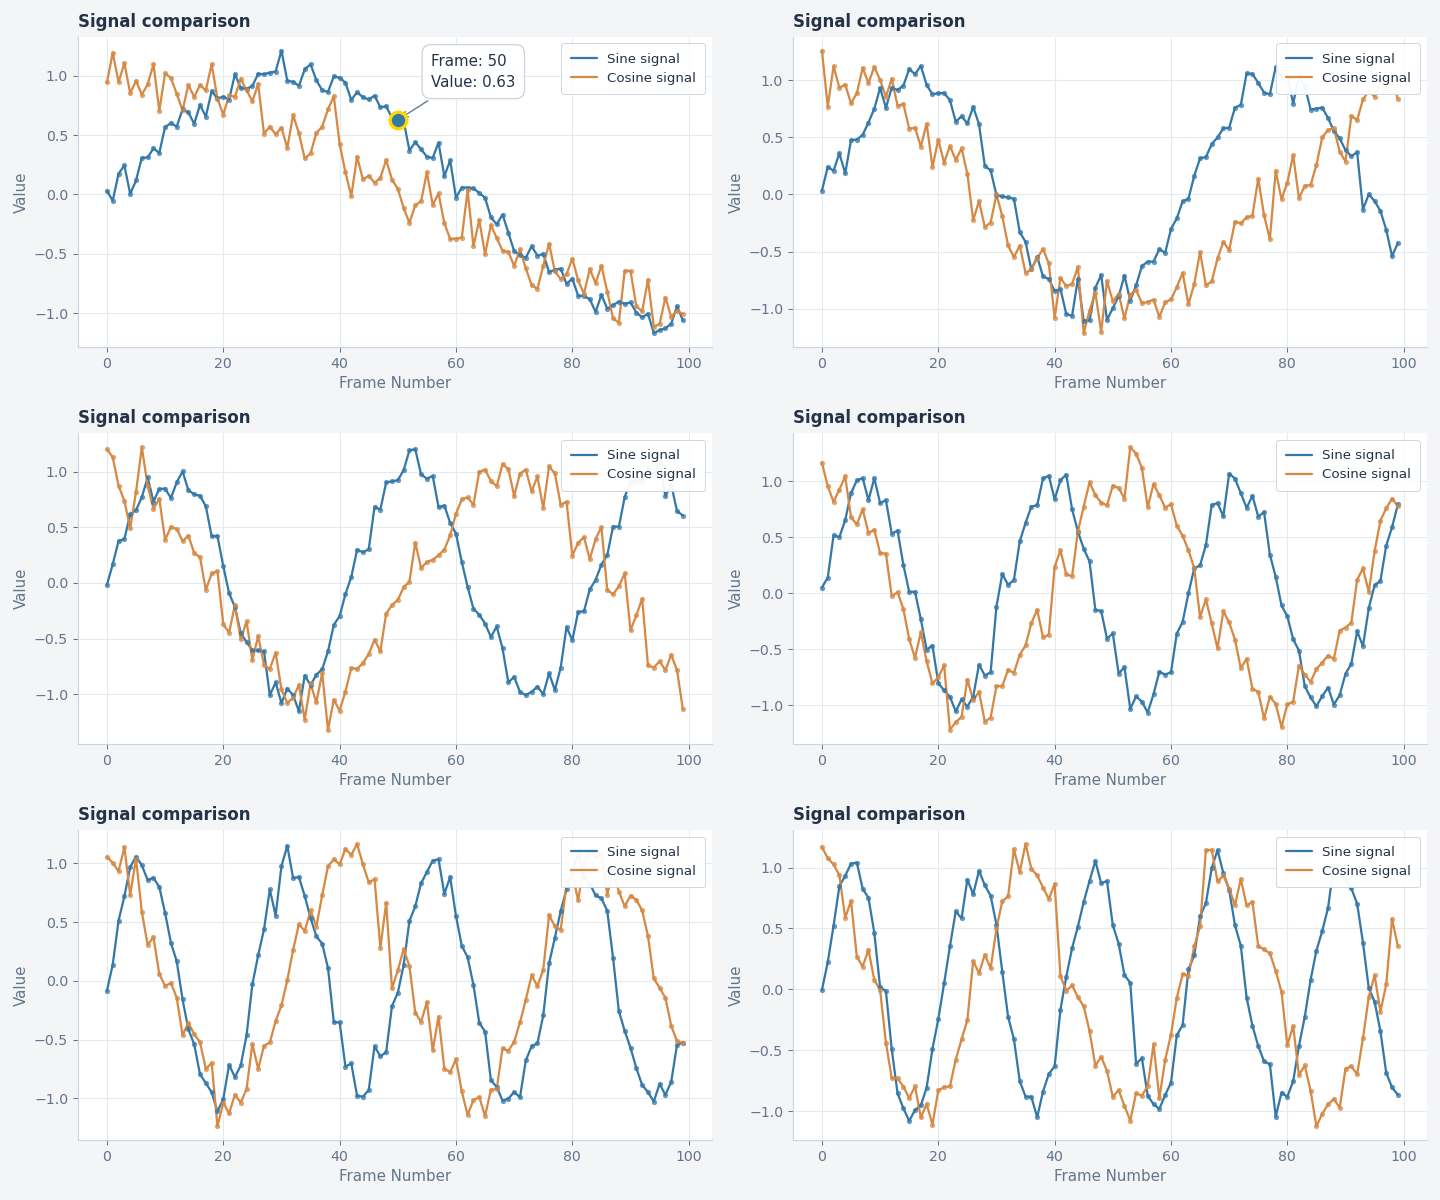
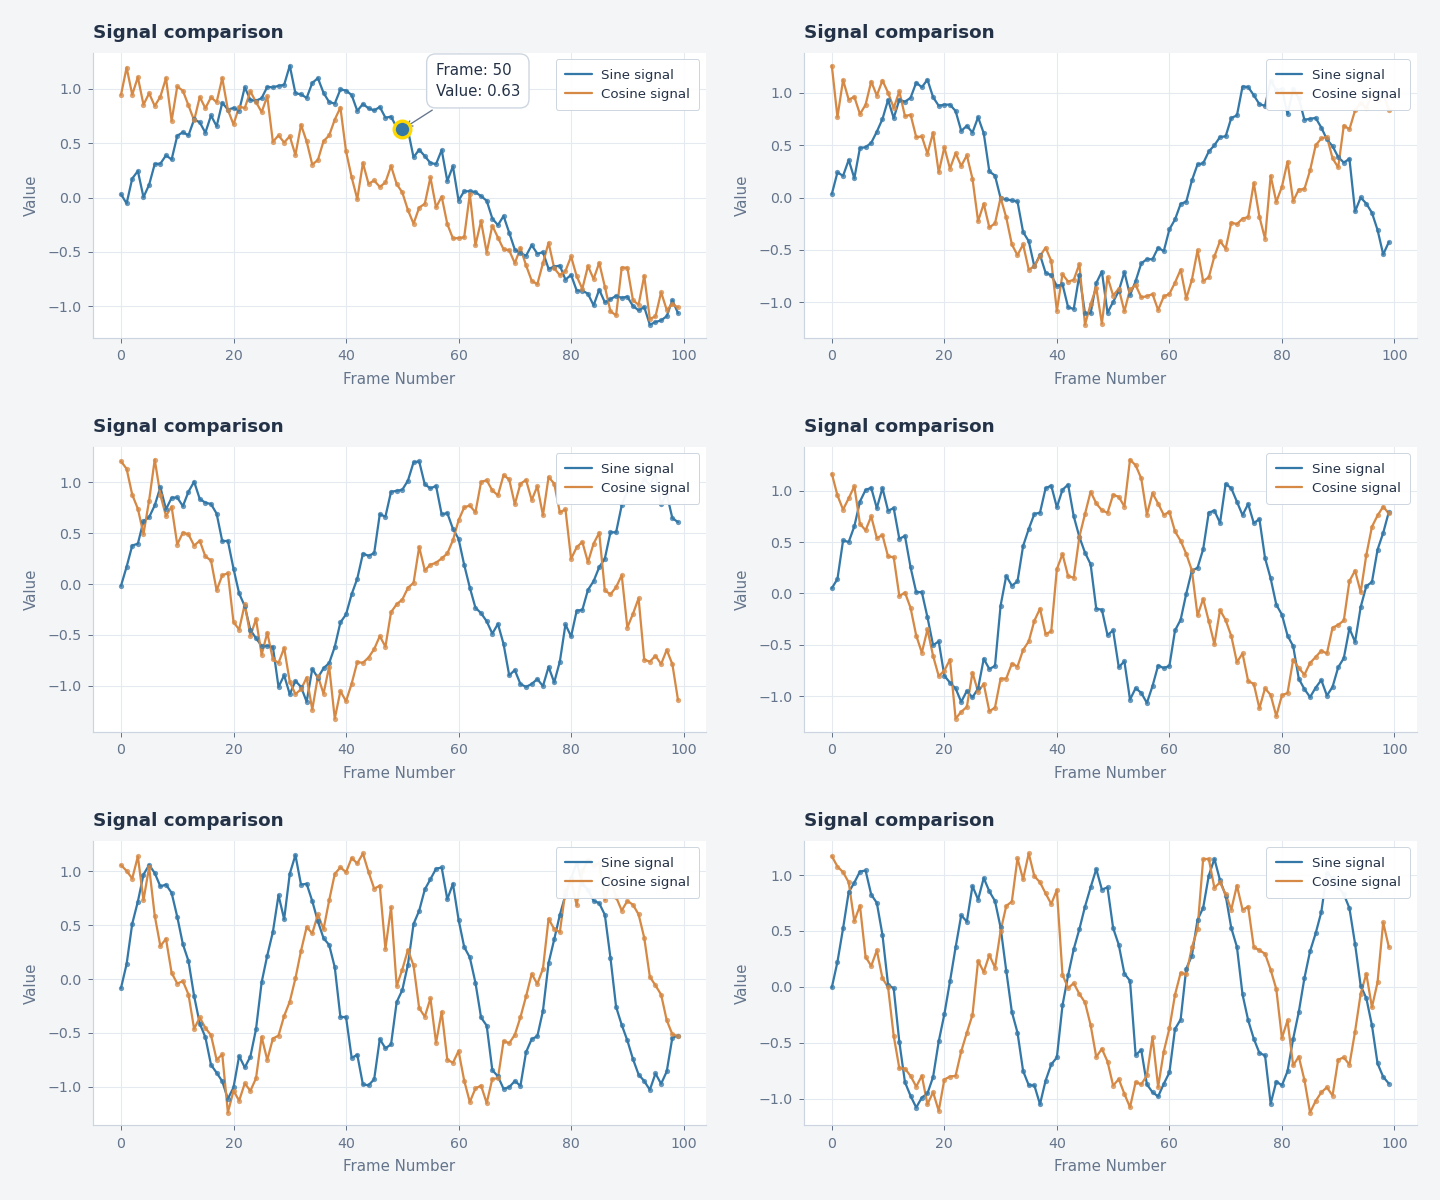
style: balance panel spacing and heading size

diff --git a/interactive_plotting/core.py b/interactive_plotting/core.py
@@ -1106,7 +1106,7 @@ def create_interactive_plot(series: Sequence[SeriesData]) -> PlotSession:
                     None,
                 )
                 if panel_title:
-                    ax.set_title(panel_title, pad=6, fontsize=10,
+                    ax.set_title(panel_title, pad=9, fontsize=11,
                                  fontweight="semibold", color=TEXT,
                                  fontfamily=families)
                     ax.title.set_horizontalalignment("left")
@@ -1123,7 +1123,7 @@ def create_interactive_plot(series: Sequence[SeriesData]) -> PlotSession:
                 legend.set_draggable(True)
                 legends.append(legend)
 
-        figure.tight_layout(pad=0.8, h_pad=1.0, w_pad=1.0)
+        figure.tight_layout(pad=1.4, h_pad=1.7, w_pad=1.7)
         dispatcher = FigureDispatcher(figure, controllers, axes)
         return PlotSession(figure, tuple(controllers), tuple(axes), dispatcher)
     except Exception:

diff --git a/interactive_plotting/style.py b/interactive_plotting/style.py
@@ -31,12 +31,12 @@ def style_axes(axis: Axes, families: list[str]) -> None:
         spine.set_color(BORDER)
         spine.set_linewidth(0.7)
     axis.tick_params(axis="both", colors=MUTED, labelsize=8.5, length=3,
-                     width=0.6, pad=3)
+                     width=0.6, pad=4)
     for coordinate_axis in (axis.xaxis, axis.yaxis):
         coordinate_axis.label.set_fontfamily(families)
         coordinate_axis.label.set_fontsize(9)
         coordinate_axis.label.set_color(MUTED)
-        coordinate_axis.labelpad = 3
+        coordinate_axis.labelpad = 5
         coordinate_axis.offsetText.set_fontfamily(families)
         coordinate_axis.offsetText.set_fontsize(8.5)
         coordinate_axis.offsetText.set_color(MUTED)

diff --git a/openspec/changes/refine-plot-visual-design/design.md b/openspec/changes/refine-plot-visual-design/design.md
@@ -12,7 +12,7 @@
 
 1. 采用轻量分析仪表风格：画布候选色 #F3F5F7、绘图区白色、正文 #243247、辅助文字 #64748B、网格 #E5EAF0；演示系列采用 #3478A8 与 #D58945。颜色可在视觉验收中微调。相比深色主题，这种风格更适合日间分析与导出打印。保留焦点金色圆环。
 2. 通过内部样式常量或小型 helper 统一 artist 属性，不调用全局 plt.style.use。字体使用 DejaVu Sans，中文按已安装字体选择 Microsoft YaHei、SimHei、PingFang SC 或 Noto Sans CJK SC 等回退；不硬编码字体文件位置。必要的 rc_context 只覆盖构建阶段，并验证后续 tooltip 的字体不依赖该临时上下文。
-3. 标题左对齐并适度加粗；按用户试用反馈，标题缩小为 10 pt、标题间距减为 6 pt，演示标题只保留 Signal comparison，不添加序号。收紧 tight_layout 的外边距与面板间距，以及轴标签/刻度的间距，保留所有坐标说明；窗口尺寸与数据范围不变。弱化上右边框，细实线网格置于数据后方；降低散点视觉权重，保持圆形数据标记和既有 6 px 命中范围。tooltip 使用白色不透明背景、浅边框和清晰文字，保留 Frame/Value 与拖动逻辑。
+3. 标题左对齐并适度加粗；按用户试用反馈，标题最终设为 11 pt、标题间距为 9 pt（用户二次反馈后适度恢复留白），演示标题只保留 Signal comparison，不添加序号。tight_layout 外边距设为 1.4、行列间距均为 1.7，适度收紧外边距与面板间距，以及轴标签/刻度的间距，保留所有坐标说明；窗口尺寸与数据范围不变。弱化上右边框，细实线网格置于数据后方；降低散点视觉权重，保持圆形数据标记和既有 6 px 命中范围。tooltip 使用白色不透明背景、浅边框和清晰文字，保留 Frame/Value 与拖动逻辑。
 4. 未指定 line_color 时使用 item.color，显式 line_color/line_alpha 原样保留。只修改演示系列标签与配色，不修改 SeriesData 公共字段默认值。演示标签使用有意义的系列名称，不继续写失真的 red/blue 字样。
 5. 按面板数设置合理初始尺寸和间距，去掉 demo 中与核心冲突的重复布局处理。优先保留现有静态布局方式，避免持续 constrained_layout 在放大时重排 axes。布局捕获必须位于最终初始排版之后；尽量不新增图级装饰，避免放大视图重叠。
 6. 事件顺序保持现状：工具栏活动/正在拖 tooltip 时先处理互斥；图例命中优先，其次 tooltip 命中，再处理 axes 双击与数据点点击。移动事件保持工具栏、图例拖动、tooltip 拖动优先，再进行悬停。样式 helper 不注册事件，也不修改键盘目标。

diff --git a/openspec/changes/refine-plot-visual-design/tasks.md b/openspec/changes/refine-plot-visual-design/tasks.md
@@ -22,3 +22,5 @@
 
 - [x] 4.1 缩小标题并移除演示标题序号，收紧标题、轴标签和面板间距；以相同 seed、窗口尺寸渲染，测量数据绘图区面积增大并检查文字不重叠。
 - [x] 4.2 重新运行完整测试、Hover 冒烟及 OpenSpec 校验，更新效果图和验证记录；保留尚未完成的真实 GUI 验收状态。
+
+- [x] 4.3 按二次反馈将标题和间距调整至前两版之间，查看更新图片并重新执行完整测试、Hover 冒烟和 OpenSpec 校验。
